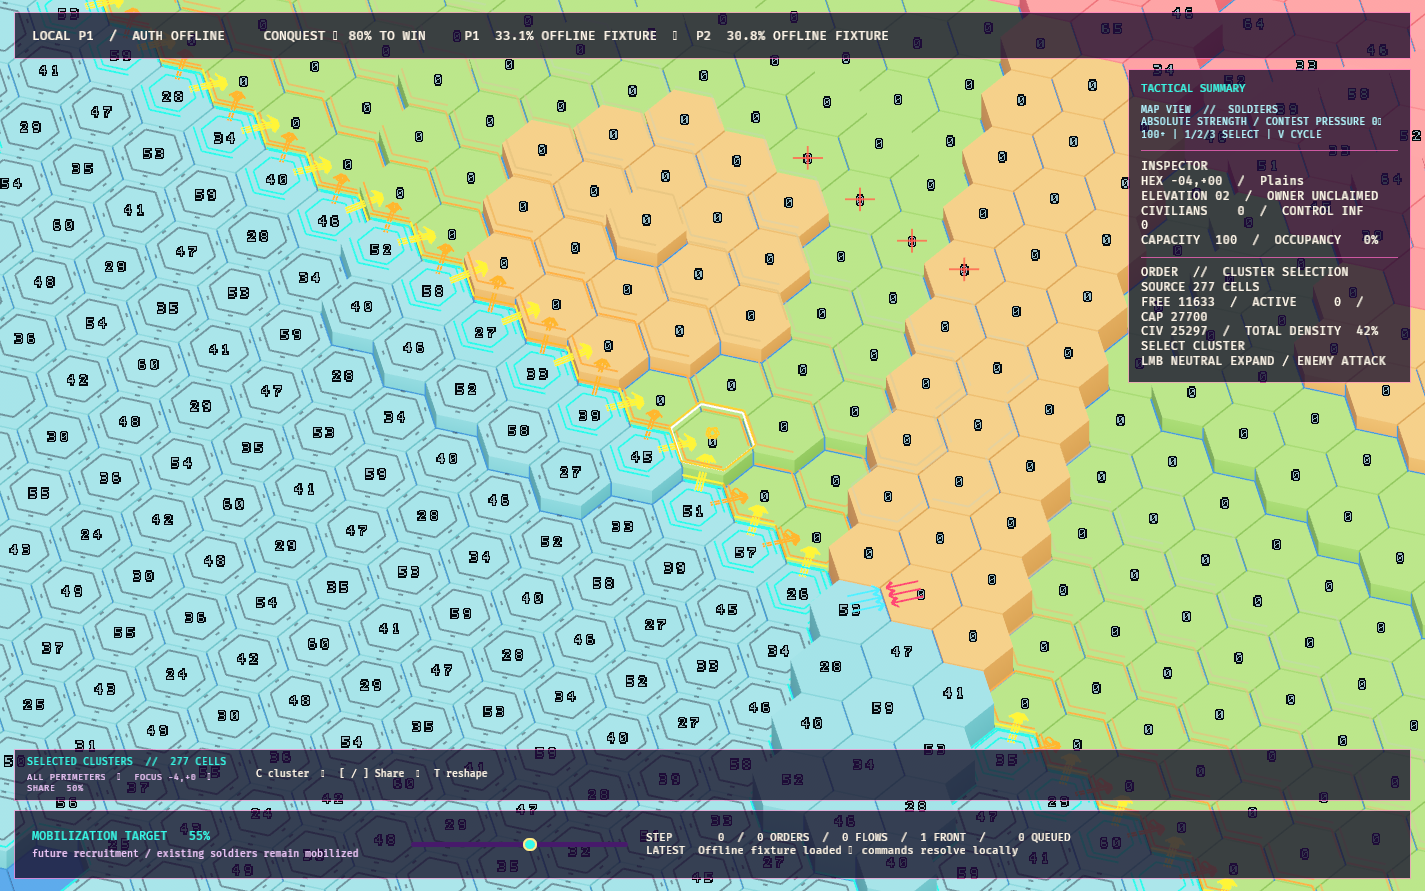
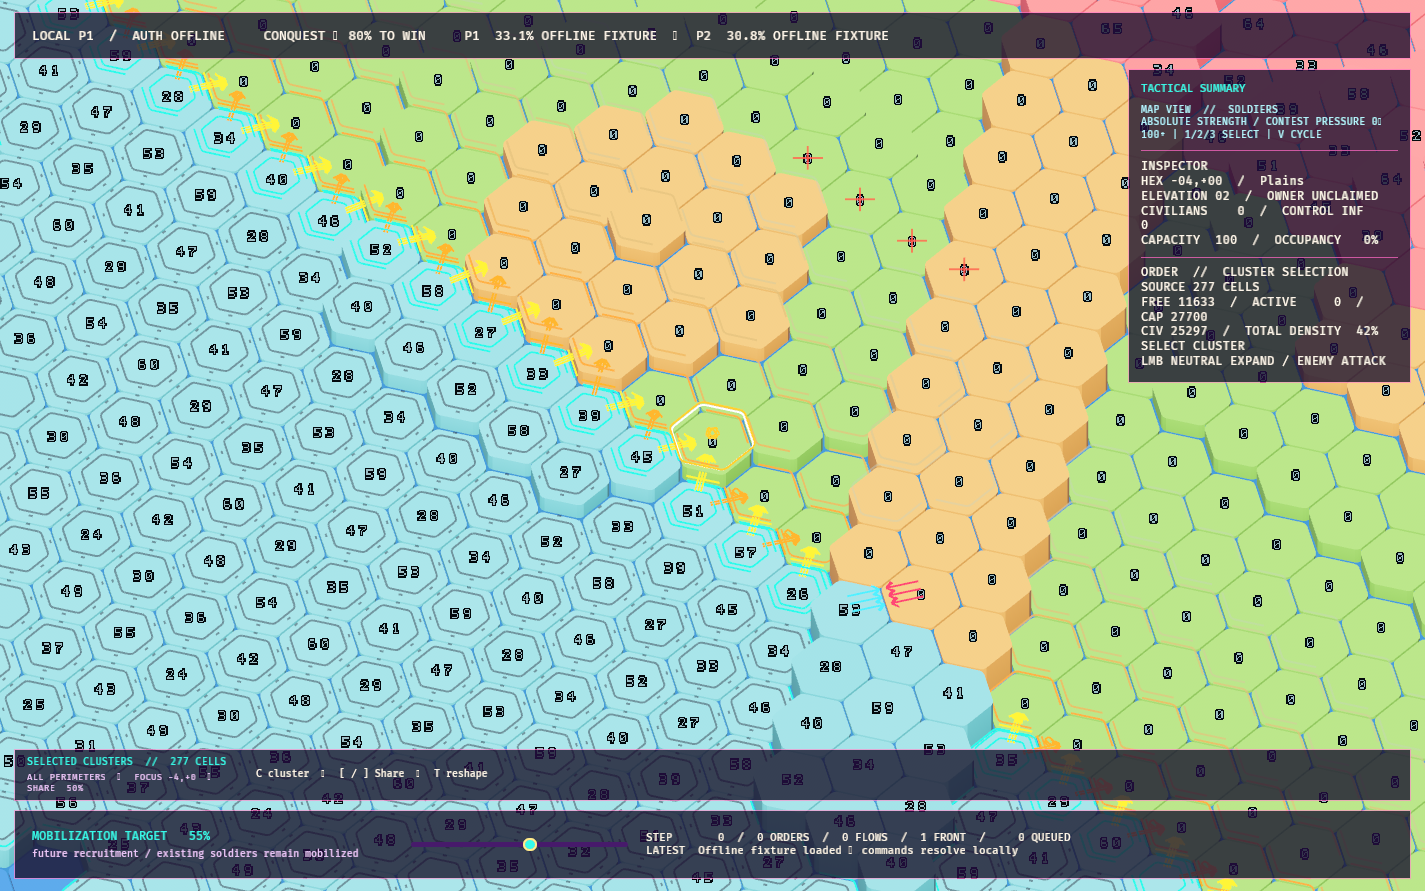
Fillet hex vertices so the plastic tiles aren't knife-sharp.
HEX_RADIUS * 0.16 on the mesh ring and the overlay outlines. Cloudy at
the corners, still a hex — hover and selection follow the same radius
instead of sitting on the old points.

Changed region(s): [[0.4632, 0.5152, 0.494, 0.5455]]

diff --git a/crates/game-client/src/geometry.rs b/crates/game-client/src/geometry.rs
@@ -3,6 +3,11 @@ use hex_core::{Axial, ChunkCoord};
 
 pub const HEX_RADIUS: f32 = 0.72;
 pub const HEX_GAP_SCALE: f32 = 0.975;
+/// Circular fillet at each lattice vertex. Small enough to stay a hex.
+pub const HEX_FILLET_RADIUS: f32 = HEX_RADIUS * 0.16;
+/// Samples along each vertex arc, including both tangent endpoints.
+pub const HEX_FILLET_ARC_POINTS: usize = 3;
+pub const HEX_OUTLINE_LEN: usize = 6 * HEX_FILLET_ARC_POINTS;
 pub const ELEVATION_STEP: f32 = 0.36;
 pub const SEA_LEVEL: f32 = 0.02;
 pub const COLUMN_FLOOR: f32 = -0.42;
@@ -60,6 +65,50 @@ pub fn corner(center: Vec3, index: usize, y: f32) -> Vec3 {
         y,
         center.z + angle.sin() * HEX_RADIUS * HEX_GAP_SCALE,
     )
+}
+
+/// Filleted top/outline ring: six cloudy vertices, still a hex.
+pub fn filleted_outline(center: Vec3, y: f32) -> [Vec3; HEX_OUTLINE_LEN] {
+    let sharp = std::array::from_fn::<_, 6, _>(|index| corner(center, index, y));
+    let radius = HEX_FILLET_RADIUS;
+    let tangent = radius / 3.0_f32.sqrt();
+    let inset = 2.0 * radius / 3.0_f32.sqrt();
+    let mut outline = [Vec3::ZERO; HEX_OUTLINE_LEN];
+    for index in 0..6 {
+        let prev = sharp[(index + 5) % 6];
+        let curr = sharp[index];
+        let next = sharp[(index + 1) % 6];
+        let to_prev = (prev - curr).normalize_or_zero();
+        let to_next = (next - curr).normalize_or_zero();
+        let start = curr + to_prev * tangent;
+        let end = curr + to_next * tangent;
+        let focus = curr + (to_prev + to_next).normalize_or_zero() * inset;
+        let base = index * HEX_FILLET_ARC_POINTS;
+        for sample in 0..HEX_FILLET_ARC_POINTS {
+            let t = sample as f32 / (HEX_FILLET_ARC_POINTS - 1) as f32;
+            outline[base + sample] = fillet_arc_point(focus, start, end, t);
+        }
+    }
+    outline
+}
+
+pub fn scaled_filleted_point(center: Vec3, point: Vec3, scale: f32) -> Vec3 {
+    center + (point - center) * scale
+}
+
+fn fillet_arc_point(focus: Vec3, start: Vec3, end: Vec3, t: f32) -> Vec3 {
+    let from = Vec2::new(start.x - focus.x, start.z - focus.z);
+    let to = Vec2::new(end.x - focus.x, end.z - focus.z);
+    let radius = from.length().max(1.0e-5);
+    let from = from / radius;
+    let mut delta = from.angle_to(to.normalize_or_zero());
+    if delta > std::f32::consts::PI {
+        delta -= std::f32::consts::TAU;
+    } else if delta < -std::f32::consts::PI {
+        delta += std::f32::consts::TAU;
+    }
+    let rotated = Vec2::from_angle(delta * t).rotate(from) * radius;
+    Vec3::new(focus.x + rotated.x, start.y, focus.z + rotated.y)
 }
 
 /// Maps an [`Axial::DIRECTIONS`] index to the matching geometric hex edge.
@@ -124,6 +173,49 @@ mod tests {
             assert!(
                 edge_direction.dot(neighbor_direction) > 0.999,
                 "direction {direction_index} mapped to edge {edge}"
+            );
+        }
+    }
+
+    #[test]
+    fn fillet_radius_is_a_small_fraction_of_the_hex() {
+        assert!((HEX_FILLET_RADIUS - HEX_RADIUS * 0.16).abs() < f32::EPSILON);
+        assert!((HEX_FILLET_RADIUS - 0.1152).abs() < 1.0e-4);
+    }
+
+    #[test]
+    fn filleted_outline_rounds_vertices_but_stays_a_hex() {
+        let center = world_center(Axial::ZERO, 0, false);
+        let outline = filleted_outline(center, center.y);
+        assert_eq!(outline.len(), HEX_OUTLINE_LEN);
+
+        let radius = |point: Vec3| Vec2::new(point.x - center.x, point.z - center.z).length();
+        for index in 0..6 {
+            let sharp = corner(center, index, center.y);
+            let closest = outline
+                .iter()
+                .copied()
+                .map(|point| point.distance(sharp))
+                .fold(f32::MAX, f32::min);
+            assert!(
+                closest > HEX_FILLET_RADIUS * 0.08,
+                "vertex {index} is still knife-sharp ({closest})"
+            );
+
+            let arc_mid = outline[index * HEX_FILLET_ARC_POINTS + HEX_FILLET_ARC_POINTS / 2];
+            let start = outline[index * HEX_FILLET_ARC_POINTS];
+            let end = outline[index * HEX_FILLET_ARC_POINTS + HEX_FILLET_ARC_POINTS - 1];
+            let next = outline[((index + 1) % 6) * HEX_FILLET_ARC_POINTS];
+            let edge_mid = end.lerp(next, 0.5);
+            assert!(
+                radius(arc_mid) > radius(start),
+                "vertex {index} arc folded inward"
+            );
+            assert!(
+                radius(arc_mid) > radius(edge_mid) + 0.03,
+                "vertex {index} fillet flattened the hex: arc {} edge {}",
+                radius(arc_mid),
+                radius(edge_mid)
             );
         }
     }

diff --git a/crates/game-client/src/overlays.rs b/crates/game-client/src/overlays.rs
@@ -8,7 +8,10 @@ use hex_core::{Axial, ChunkCoord};
 
 use crate::{
     camera::GameCamera,
-    geometry::{chunk_of, corner, edge_index_for_direction, world_center},
+    geometry::{
+        HEX_FILLET_ARC_POINTS, chunk_of, edge_index_for_direction, filleted_outline,
+        scaled_filleted_point, world_center,
+    },
     interaction::{ContextualHover, InteractionState, OrderMode},
     model::{CellView, MatchView},
     terrain::TerrainChunk,
@@ -388,9 +391,22 @@ fn draw_region_perimeter(
         };
         let center = point(cell, style.lift);
         let color = color_for(cell);
+        let mut exposed = [false; 6];
         for (direction, neighbor) in coordinate.neighbors().into_iter().enumerate() {
             if perimeter_edge_is_exposed(selection, neighbor) {
-                draw_hex_edge(gizmos, center, direction, style.scale, color);
+                exposed[edge_index_for_direction(direction)] = true;
+            }
+        }
+        for edge in 0..6 {
+            if exposed[edge] {
+                draw_filleted_hex_edge(
+                    gizmos,
+                    center,
+                    edge,
+                    style.scale,
+                    color,
+                    exposed[(edge + 5) % 6],
+                );
             }
         }
     }
@@ -933,19 +949,49 @@ fn point(cell: &CellView, lift: f32) -> Vec3 {
 }
 
 fn draw_hex(gizmos: &mut Gizmos, center: Vec3, scale: f32, color: Color) {
-    let points = (0..6).map(|index| {
-        let full = corner(center, index, center.y);
-        center + (full - center) * scale
-    });
+    let points = filleted_outline(center, center.y)
+        .into_iter()
+        .map(|point| scaled_filleted_point(center, point, scale));
     gizmos.lineloop(points, color);
 }
 
 fn draw_hex_edge(gizmos: &mut Gizmos, center: Vec3, direction: usize, scale: f32, color: Color) {
-    let start_corner = edge_index_for_direction(direction);
-    let end_corner = (start_corner + 1) % 6;
-    let start = center + (corner(center, start_corner, center.y) - center) * scale;
-    let end = center + (corner(center, end_corner, center.y) - center) * scale;
-    gizmos.line(start, end, color);
+    draw_filleted_hex_edge(
+        gizmos,
+        center,
+        edge_index_for_direction(direction),
+        scale,
+        color,
+        false,
+    );
+}
+
+fn draw_filleted_hex_edge(
+    gizmos: &mut Gizmos,
+    center: Vec3,
+    edge: usize,
+    scale: f32,
+    color: Color,
+    include_start_fillet: bool,
+) {
+    let ring = filleted_outline(center, center.y);
+    let start_idx = edge * HEX_FILLET_ARC_POINTS + HEX_FILLET_ARC_POINTS - 1;
+    let end_idx = ((edge + 1) % 6) * HEX_FILLET_ARC_POINTS;
+    gizmos.line(
+        scaled_filleted_point(center, ring[start_idx], scale),
+        scaled_filleted_point(center, ring[end_idx], scale),
+        color,
+    );
+    if include_start_fillet {
+        let base = edge * HEX_FILLET_ARC_POINTS;
+        for sample in 0..HEX_FILLET_ARC_POINTS - 1 {
+            gizmos.line(
+                scaled_filleted_point(center, ring[base + sample], scale),
+                scaled_filleted_point(center, ring[base + sample + 1], scale),
+                color,
+            );
+        }
+    }
 }
 
 fn draw_segmented_hex(
@@ -955,11 +1001,12 @@ fn draw_segmented_hex(
     color: Color,
     segment_fraction: f32,
 ) {
-    for direction in 0..6 {
-        let start_corner = edge_index_for_direction(direction);
-        let end_corner = (start_corner + 1) % 6;
-        let start = center + (corner(center, start_corner, center.y) - center) * scale;
-        let end = center + (corner(center, end_corner, center.y) - center) * scale;
+    let ring = filleted_outline(center, center.y);
+    for edge in 0..6 {
+        let start_idx = edge * HEX_FILLET_ARC_POINTS + HEX_FILLET_ARC_POINTS - 1;
+        let end_idx = ((edge + 1) % 6) * HEX_FILLET_ARC_POINTS;
+        let start = scaled_filleted_point(center, ring[start_idx], scale);
+        let end = scaled_filleted_point(center, ring[end_idx], scale);
         let middle = start.lerp(end, 0.5);
         let half = segment_fraction.clamp(0.05, 0.95) * 0.5;
         gizmos.line(start.lerp(middle, 1.0 - half), middle, color);

diff --git a/crates/game-client/src/terrain.rs b/crates/game-client/src/terrain.rs
@@ -13,7 +13,10 @@ use bevy::{
 use hex_core::{Axial, ChunkCoord, TerrainKind};
 
 use crate::{
-    geometry::{COLUMN_FLOOR, cell_top, corner, edge_index_for_direction, world_center},
+    geometry::{
+        COLUMN_FLOOR, HEX_FILLET_ARC_POINTS, HEX_OUTLINE_LEN, cell_top, edge_index_for_direction,
+        filleted_outline, world_center,
+    },
     map_view::{MapViewMode, normalized_cell_value, normalized_soldier_strength},
     model::{CellView, ContestedCellView, MatchView},
 };
@@ -467,34 +470,37 @@ fn push_cell(builder: &mut ChunkMeshBuilder, view: &MatchView, cell: &CellView, 
     let top_y = cell_top(cell.elevation, cell.is_water());
     let center = world_center(cell.coordinate, cell.elevation, cell.is_water());
     let top_color = cell_color(cell, view.contested_cells.get(&cell.coordinate), mode);
+    let outline = filleted_outline(center, top_y);
 
     let center_index = builder.vertex(cell.coordinate, center, Vec3::Y, top_color, 1.0);
-    let top_corners = std::array::from_fn::<_, 6, _>(|index| {
-        builder.vertex(
-            cell.coordinate,
-            corner(center, index, top_y),
-            Vec3::Y,
-            top_color,
-            1.0,
-        )
+    let rim = std::array::from_fn::<_, HEX_OUTLINE_LEN, _>(|index| {
+        builder.vertex(cell.coordinate, outline[index], Vec3::Y, top_color, 1.0)
     });
-    for index in 0..6 {
-        let next = (index + 1) % 6;
+    for index in 0..HEX_OUTLINE_LEN {
+        let next = (index + 1) % HEX_OUTLINE_LEN;
         // Clockwise winding in XZ points the normal toward +Y.
-        builder.triangle(
-            cell.coordinate,
-            center_index,
-            top_corners[next],
-            top_corners[index],
-        );
+        builder.triangle(cell.coordinate, center_index, rim[next], rim[index]);
     }
 
+    let mut neighbor_top = [COLUMN_FLOOR; 6];
     for (direction, neighbor_coord) in cell.coordinate.neighbors().into_iter().enumerate() {
-        let neighbor_top = view.cell(neighbor_coord).map_or(COLUMN_FLOOR, |neighbor| {
-            cell_top(neighbor.elevation, neighbor.is_water())
-        });
-        let bottom_y = if neighbor_top + 0.015 < top_y {
-            neighbor_top.max(COLUMN_FLOOR)
+        neighbor_top[edge_index_for_direction(direction)] =
+            view.cell(neighbor_coord).map_or(COLUMN_FLOOR, |neighbor| {
+                cell_top(neighbor.elevation, neighbor.is_water())
+            });
+    }
+
+    for index in 0..HEX_OUTLINE_LEN {
+        let next = (index + 1) % HEX_OUTLINE_LEN;
+        let vertex = index / HEX_FILLET_ARC_POINTS;
+        let along_arc = index % HEX_FILLET_ARC_POINTS;
+        let facing_top = if along_arc == HEX_FILLET_ARC_POINTS - 1 {
+            neighbor_top[vertex]
+        } else {
+            neighbor_top[(vertex + 5) % 6].min(neighbor_top[vertex])
+        };
+        let bottom_y = if facing_top + 0.015 < top_y {
+            facing_top.max(COLUMN_FLOOR)
         } else {
             (top_y - 0.065).max(COLUMN_FLOOR)
         };
@@ -502,12 +508,10 @@ fn push_cell(builder: &mut ChunkMeshBuilder, view: &MatchView, cell: &CellView, 
             continue;
         }
 
-        let edge = edge_index_for_direction(direction);
-        let next = (edge + 1) % 6;
-        let top_a = corner(center, edge, top_y);
-        let top_b = corner(center, next, top_y);
-        let bottom_a = corner(center, edge, bottom_y);
-        let bottom_b = corner(center, next, bottom_y);
+        let top_a = outline[index];
+        let top_b = outline[next];
+        let bottom_a = Vec3::new(top_a.x, bottom_y, top_a.z);
+        let bottom_b = Vec3::new(top_b.x, bottom_y, top_b.z);
         let normal = Vec3::new(
             (top_a.x + top_b.x) * 0.5 - center.x,
             0.0,
